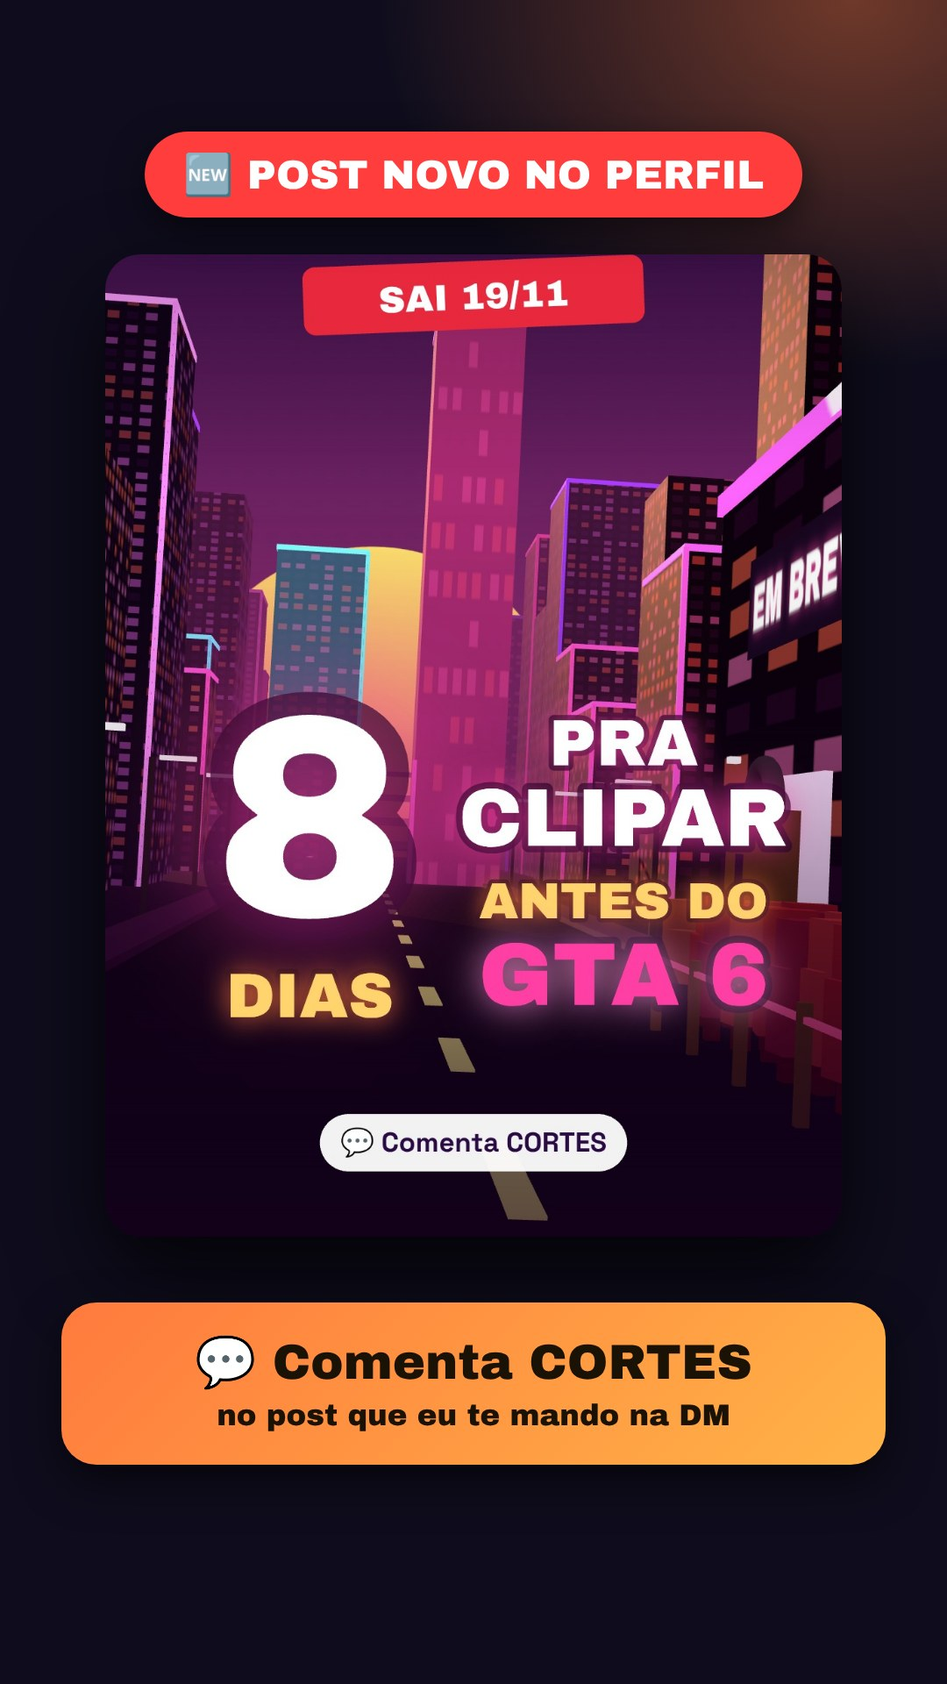
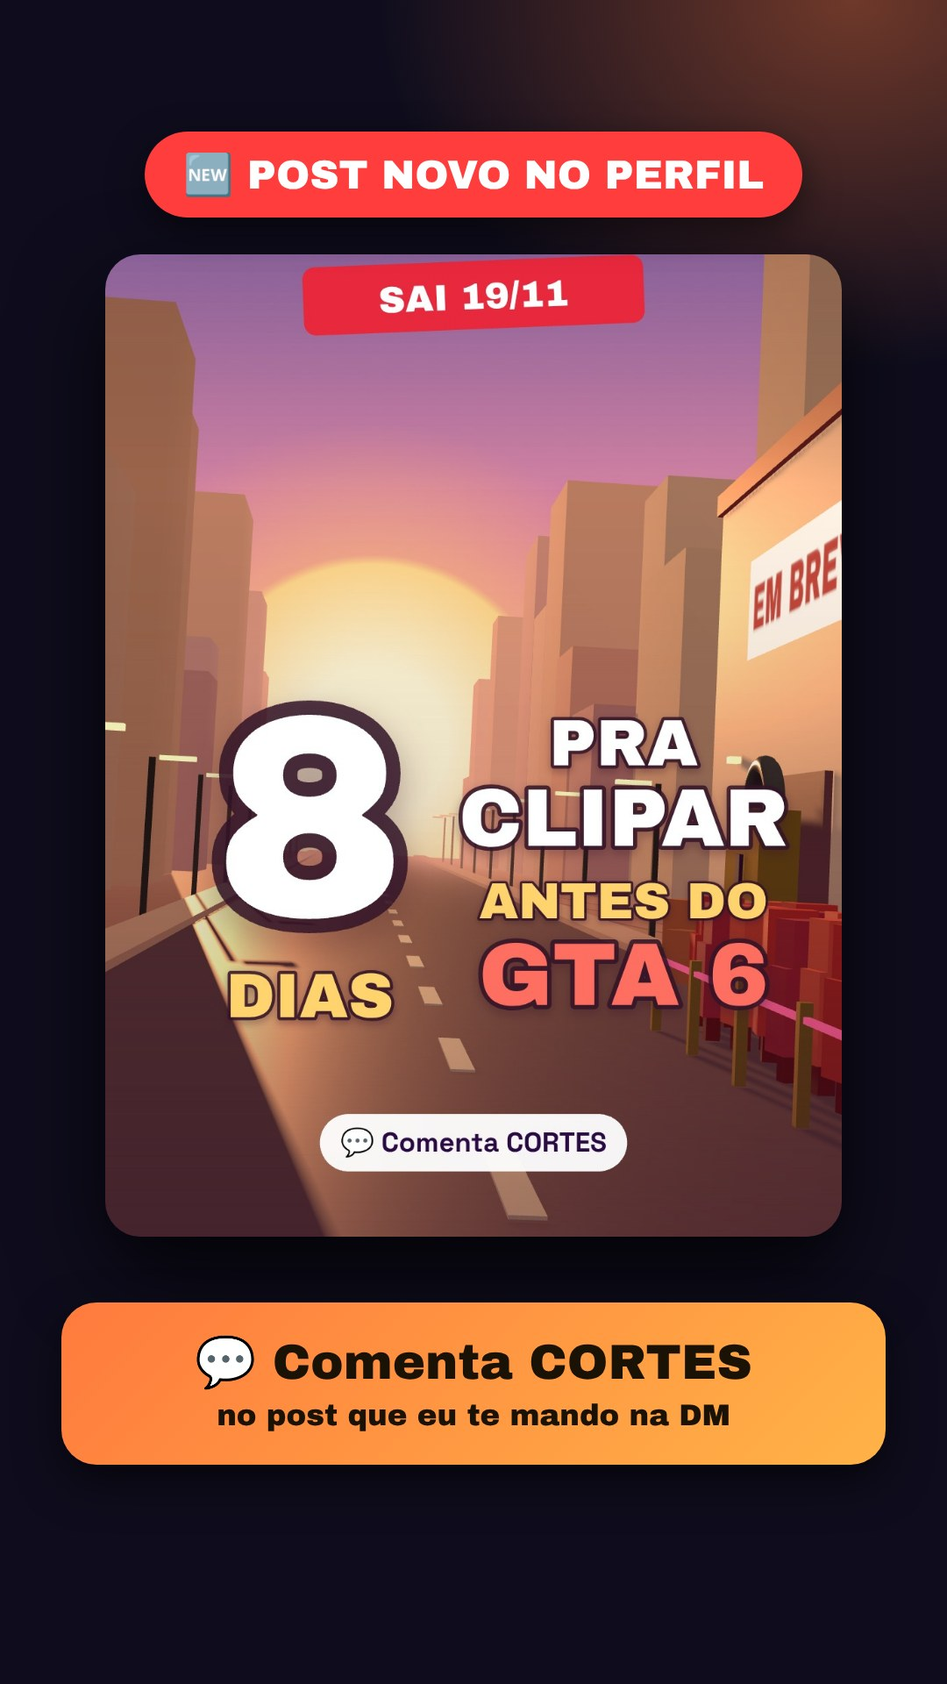
GTA 6: visual de pôr do sol limpo (sem neon/janelas), capa e story refeitas; manual atualizado
Claude-Session: https://claude.ai/code/session_01Q8XwFp4PbQRk1Sr59ew9Br

diff --git a/ia/video/cena_gta/index.html b/ia/video/cena_gta/index.html
@@ -14,9 +14,9 @@ for (const f of ['400 60px AB', '700 60px SG']) await document.fonts.load(f);
 const R = new THREE.WebGLRenderer({ canvas: document.getElementById('g'), antialias: true, preserveDrawingBuffer: true });
 R.setSize(1080, 1920, false); R.shadowMap.enabled = true; R.shadowMap.type = THREE.PCFSoftShadowMap; R.outputColorSpace = THREE.SRGBColorSpace;
 const S = new THREE.Scene(); const cam = new THREE.PerspectiveCamera(40, 1080 / 1920, .1, 500);
-S.fog = new THREE.Fog(0x8a2b6e, 40, 150);
-const hemi = new THREE.HemisphereLight(0xffb0d8, 0x40124a, 1.25); S.add(hemi);
-const sol = new THREE.DirectionalLight(0xffa77a, 2.4); sol.position.set(-20, 14, -40); sol.castShadow = true; sol.shadow.mapSize.set(2048, 2048);
+S.fog = new THREE.Fog(0xf7a98a, 35, 170);
+const hemi = new THREE.HemisphereLight(0xffe2c4, 0x8a5a6a, 1.35); S.add(hemi);
+const sol = new THREE.DirectionalLight(0xffb070, 2.6); sol.position.set(-8, 10, -60); sol.castShadow = true; sol.shadow.mapSize.set(2048, 2048); sol.shadow.bias = -0.0006; sol.shadow.normalBias = .04;
 Object.assign(sol.shadow.camera, { left: -40, right: 40, top: 40, bottom: -40, near: 1, far: 120 }); S.add(sol, sol.target);
 const cl = (x, a = 0, b = 1) => Math.max(a, Math.min(b, x)), lin = (t, a, b) => cl((t - a) / (b - a)), eo = x => 1 - Math.pow(1 - cl(x), 3);
 const eio = x => { x = cl(x); return x < .5 ? 4 * x * x * x : 1 - Math.pow(-2 * x + 2, 3) / 2; }, back = x => { x = cl(x); const c = 1.7; return 1 + (c + 1) * Math.pow(x - 1, 3) + c * Math.pow(x - 1, 2); };
@@ -26,36 +26,35 @@ function mesh(g, m, par = S, x = 0, y = 0, z = 0) { const o = new THREE.Mesh(g, 
 const box = (w, h, d, m, par, x, y, z) => mesh(new THREE.BoxGeometry(w, h, d), m, par, x, y, z);
 function ctex(w, h, draw) { const c = document.createElement('canvas'); c.width = w; c.height = h; const g = c.getContext('2d'); const t = new THREE.CanvasTexture(c); t.colorSpace = THREE.SRGBColorSpace; t.draw = (...a) => { g.clearRect(0, 0, w, h); draw(g, w, h, ...a); t.needsUpdate = true; }; t.draw(); return t; }
 const V = (x, y, z) => new THREE.Vector3(x, y, z);
-const ROSA = '#ff3fa4', ROXO = '#7b2cff', CIANO = '#4fe3ff', CREME = '#fff3e6', LARANJA = '#ff7a3d';
+const ROSA = '#ff6f61', ROXO = '#6b4aa0', CIANO = '#ffc36b', CREME = '#fff3e6', LARANJA = '#ff7a3d';
 
 // ---------- céu: degradê pôr do sol + sol listrado ----------
-const ceuT = ctex(64, 512, g => { const d = g.createLinearGradient(0, 0, 0, 512); d.addColorStop(0, '#2a0b45'); d.addColorStop(.45, '#8a2b6e'); d.addColorStop(.75, '#ff6f91'); d.addColorStop(1, '#ffc38a'); g.fillStyle = d; g.fillRect(0, 0, 64, 512); });
+const ceuT = ctex(64, 512, g => { const d = g.createLinearGradient(0, 0, 0, 512); d.addColorStop(0, '#6b5aa8'); d.addColorStop(.38, '#e98aa0'); d.addColorStop(.7, '#ffb37a'); d.addColorStop(1, '#ffe2a8'); g.fillStyle = d; g.fillRect(0, 0, 64, 512); });
 S.background = ceuT;
-const solT = ctex(512, 512, g => { const d = g.createLinearGradient(0, 0, 0, 512); d.addColorStop(0, '#ffe36e'); d.addColorStop(1, '#ff3f8e'); g.fillStyle = d; g.beginPath(); g.arc(256, 256, 250, 0, 7); g.fill();
-  g.globalCompositeOperation = 'destination-out'; for (let i = 0; i < 7; i++) g.fillRect(0, 300 + i * 30, 512, 6 + i * 2); });
-const SOL = mesh(new THREE.PlaneGeometry(40, 40), new THREE.MeshBasicMaterial({ map: solT, transparent: true, fog: false, depthWrite: false }), S, 0, 12, -140); SOL.castShadow = SOL.receiveShadow = false;
+const solT = ctex(512, 512, g => { const h = g.createRadialGradient(256, 256, 60, 256, 256, 256); h.addColorStop(0, 'rgba(255,246,214,1)'); h.addColorStop(.42, 'rgba(255,214,140,1)'); h.addColorStop(.46, 'rgba(255,190,120,.55)'); h.addColorStop(1, 'rgba(255,170,110,0)'); g.fillStyle = h; g.fillRect(0, 0, 512, 512); });
+const SOL = mesh(new THREE.PlaneGeometry(70, 70), new THREE.MeshBasicMaterial({ map: solT, transparent: true, fog: false, depthWrite: false }), S, 0, 10, -150); SOL.castShadow = SOL.receiveShadow = false;
 
 // ---------- cidade: avenida principal (eixo z) com prédios dos dois lados ----------
-const chao = mesh(new THREE.PlaneGeometry(400, 400), M('#2b1238', { roughness: .35, metalness: .2 })); chao.rotation.x = -Math.PI / 2;
-const rua = box(10, .02, 300, M('#1a0b24', { roughness: .3, metalness: .3 }), S, 0, .01, -60);
-for (let z = 60; z > -200; z -= 6) box(.25, .03, 2.4, E('#ffd36e', 1.2), S, 0, .03, z);
-for (const x of [-5.6, 5.6]) box(1.2, .18, 300, M('#4a2050'), S, x, .09, -60);
+const chao = mesh(new THREE.PlaneGeometry(400, 400), M('#c98a7a', { roughness: .8 })); chao.rotation.x = -Math.PI / 2;
+const rua = box(10, .02, 300, M('#6e4a5a', { roughness: .55, metalness: .1 }), S, 0, .01, -60);
+for (let z = 60; z > -200; z -= 6) box(.25, .03, 2.4, M('#fff1d6'), S, 0, .03, z);
+for (const x of [-5.6, 5.6]) box(1.2, .18, 300, M('#e8b9a4'), S, x, .09, -60);
 const janT = ctex(128, 256, g => { g.fillStyle = '#1b0b2a'; g.fillRect(0, 0, 128, 256); for (let y = 10; y < 256; y += 26) for (let x = 10; x < 128; x += 30) { g.fillStyle = Math.random() < .55 ? (Math.random() < .5 ? '#ffd1f0' : '#ffb36b') : '#3a1a4a'; g.fillRect(x, y, 18, 14); } });
 janT.wrapS = janT.wrapT = THREE.RepeatWrapping;
 const PRED = [];
-function predio(x, z, w, d, h, cor, neon) { const g = new THREE.Group(); g.position.set(x, 0, z); S.add(g); const mt = M(cor, { map: janT.clone() }); mt.map.repeat.set(Math.max(1, w / 3), Math.max(1, h / 5)); mt.map.needsUpdate = true;
+function predio(x, z, w, d, h, cor, neon) { const g = new THREE.Group(); g.position.set(x, 0, z); S.add(g); const mt = M(cor, { roughness: .85 });
   const b = box(w, h, d, mt, g, 0, h / 2, 0); b.userData.base = h; if (neon) { box(w + .1, .25, d + .1, E(neon, 2.5), g, 0, h, 0); box(.2, h, .2, E(neon, 2), g, x < 0 ? w / 2 : -w / 2, h / 2, d / 2); } PRED.push(g); return g; }
-const cores = ['#e9d6ff', '#ffc6e3', '#b78bff', '#ff9ccc', '#ffe3f3', '#c7a6ff'], neons = [ROSA, CIANO, ROXO, '#ff6bd5', null, null];
+const cores = ['#f6c7ae', '#f0a99a', '#e8b4c4', '#fbd9bd', '#d99aa8', '#f4bfa0'], neons = [null, null, null, null, null, null];
 for (const lado of [-1, 1]) for (let z = 30; z > -170; z -= 7 + rnd() * 4) { const w = 5 + rnd() * 4, h = 6 + rnd() * 18; predio(lado * (9 + w / 2 + rnd() * 2), z, w, 5 + rnd() * 3, h, cores[(rnd() * 6) | 0], neons[(rnd() * 6) | 0]); }
 // postes com luz rosa
-for (let z = 26; z > -120; z -= 12) for (const x of [-6.4, 6.4]) { box(.15, 4, .15, M('#333'), S, x, 2, z); box(.9, .12, .3, E('#ff9ad1', 3), S, x * .9, 4, z); }
+for (let z = 26; z > -120; z -= 12) for (const x of [-6.4, 6.4]) { box(.15, 4, .15, M('#333'), S, x, 2, z); box(.9, .12, .3, E('#ffe0a8', 1.2), S, x * .9, 4, z); }
 
 // ---------- prédio "EM BREVE" (alvo da fila), à direita do começo da avenida ----------
 const LOJA = new THREE.Group(); LOJA.position.set(8.5, 0, -6); LOJA.rotation.y = -Math.PI / 2; S.add(LOJA);
-box(12, 9, 6, M('#ffd9ec', { map: janT }), LOJA, 0, 4.5, 0); box(12.2, .4, 6.2, E(ROSA, 2.5), LOJA, 0, 9, 0);
-const breveT = ctex(512, 128, (g, w, h, txt = 'EM BREVE') => { g.fillStyle = '#18061f'; g.fillRect(0, 0, w, h); g.fillStyle = '#fff'; g.font = '400 82px AB'; g.textAlign = 'center'; g.textBaseline = 'middle'; g.shadowColor = ROSA; g.shadowBlur = 22; g.fillText(txt, w / 2, h / 2 + 4); });
+box(12, 9, 6, M('#fbe3d0'), LOJA, 0, 4.5, 0); box(12.2, .4, 6.2, M('#d97a6a'), LOJA, 0, 9, 0);
+const breveT = ctex(512, 128, (g, w, h, txt = 'EM BREVE') => { g.fillStyle = '#fff4e6'; g.fillRect(0, 0, w, h); g.fillStyle = '#c4473a'; g.font = '400 82px AB'; g.textAlign = 'center'; g.textBaseline = 'middle'; g.fillText(txt, w / 2, h / 2 + 4); });
 const LETREIRO = mesh(new THREE.PlaneGeometry(7, 1.75), new THREE.MeshBasicMaterial({ map: breveT }), LOJA, 0, 6.6, 3.05);
-const PORTA = box(3, 3.6, .2, E('#ffb3dc', 1.6), LOJA, 0, 1.8, 3.02);
+const PORTA = box(3, 3.6, .2, M('#7a4a5a'), LOJA, 0, 1.8, 3.02);
 // cadeado gigante na porta
 const CAD = new THREE.Group(); CAD.position.set(0, 2.2, 3.6); LOJA.add(CAD); box(2, 1.7, .6, M('#ffcf4a', { metalness: .7, roughness: .3 }), CAD, 0, 0, 0);
 const arco = mesh(new THREE.TorusGeometry(.65, .16, 12, 24, Math.PI), M('#d9d9e8', { metalness: .9, roughness: .2 }), CAD, 0, .85, 0); box(.25, .5, .1, M('#3a1a4a'), CAD, 0, -.1, .31);
@@ -71,8 +70,8 @@ function mascote(esc = 1) { const g = new THREE.Group(); const c = M('#d9774a', 
 const MASC = mascote(1.1); // 1º da fila
 // ---------- escritório (p1–p4): mesa com monitor numa sala rosa, montado longe (x=60) ----------
 const SALA = new THREE.Group(); SALA.position.set(60, 0, 0); S.add(SALA);
-box(14, .2, 12, M('#3a1650'), SALA, 0, .1, 0); box(14, 9, .3, M('#5a1f73'), SALA, 0, 4.5, -5); box(.3, 9, 12, M('#4a1a62'), SALA, -7, 4.5, 0);
-box(4, 3, .1, E('#ff9ad1', .6), SALA, -3.5, 5.5, -4.8); // quadro neon
+box(14, .2, 12, M('#8a5a4c'), SALA, 0, .1, 0); box(14, 9, .3, M('#c27a62'), SALA, 0, 4.5, -5); box(.3, 9, 12, M('#a8654f'), SALA, -7, 4.5, 0);
+box(4, 3, .1, M('#ffd9b0'), SALA, -3.5, 5.5, -4.8); // quadro neon
 const MESA = box(6, .25, 2.6, M('#e9d6ff'), SALA, 0, 2.1, -2.6); for (const x of [-2.8, 2.8]) box(.2, 2, 2.4, M('#b78bff'), SALA, x, 1, -2.6);
 const telaT = ctex(640, 400, () => {}); const TELA = mesh(new THREE.PlaneGeometry(4.2, 2.6), new THREE.MeshBasicMaterial({ map: telaT }), SALA, 0, 3.9, -3.55);
 box(4.4, 2.8, .15, M('#1a1a22'), SALA, 0, 3.9, -3.65); box(.3, 1, .3, M('#1a1a22'), SALA, 0, 2.6, -3.7);
@@ -85,7 +84,7 @@ mesh(new THREE.PlaneGeometry(1.8, .68), new THREE.MeshBasicMaterial({ map: lvT, 
 const arqT = ctex(320, 200, g => { const d = g.createLinearGradient(0, 0, 0, 200); d.addColorStop(0, '#ff6f91'); d.addColorStop(1, '#2a0b45'); g.fillStyle = d; g.fillRect(0, 0, 320, 200); g.fillStyle = '#e8283c'; g.fillRect(14, 14, 80, 34); g.fillStyle = '#fff'; g.font = '400 24px AB'; g.fillText('LIVE', 24, 40); g.font = '700 24px SG'; g.fillText('live_gta.mp4 · 4h12', 14, 182); });
 const ARQ = mesh(new THREE.BoxGeometry(2.6, 1.6, .06), [M('#fff'), M('#fff'), M('#fff'), M('#fff'), new THREE.MeshBasicMaterial({ map: arqT }), M('#fff')], PASTA, 0, 3, .3);
 // ---------- prédio que cresce ("o mais clipado") e prédio do recorde atual, numa praça (z=-60) ----------
-const RECD = predio(-3.6, -60, 4.4, 4.4, 16, '#f2eaff', CIANO); const MAIS = predio(3.6, -60, 4.4, 4.4, 6, '#ff9ccc', ROSA); MAIS.children[0].material.emissive.set('#ff3fa4'); MAIS.children[0].material.emissiveIntensity = .45; RECD.children[0].material.emissive.set('#4fe3ff'); RECD.children[0].material.emissiveIntensity = .2;
+const RECD = predio(-3.6, -60, 4.4, 4.4, 16, '#f2eaff', CIANO); const MAIS = predio(3.6, -60, 4.4, 4.4, 6, '#ff9ccc', ROSA); MAIS.children[0].material.color.set('#f08a78'); MAIS.children[0].material.emissive.set('#ff8a6a'); MAIS.children[0].material.emissiveIntensity = .12; RECD.children[0].material.color.set('#f6e4d4');
 // ---------- torres de moedas (longo) ----------
 const MOEDAS = new THREE.Group(); MOEDAS.position.set(0, 0, -100); MOEDAS.scale.setScalar(.7); S.add(MOEDAS); const gm = new THREE.CylinderGeometry(.9, .9, .22, 24), mm = M('#ffc93a', { metalness: .85, roughness: .25 });
 const pilhas = []; for (let k = 0; k < 5; k++) { const p = new THREE.InstancedMesh(gm, mm, 40); p.position.set(-4.8 + k * 2.4, 0, (k % 2) * 1.2); MOEDAS.add(p); pilhas.push(p); }
@@ -100,17 +99,17 @@ const fnt = (s, f = 'AB') => `${f === 'AB' ? 400 : 700} ${s}px ${f}`;
 const pil = (x, y, w, h, r, c) => { X.fillStyle = c; X.beginPath(); X.roundRect(x, y, w, h, r); X.fill(); };
 function cabe(txt, f, mx, fam = 'AB') { while (f > 18) { X.font = fnt(f, fam); if (X.measureText(txt).width <= mx) break; f -= 2; } return f; }
 function neon(txt, x, y, f, cor = '#fff', glow = ROSA, al = 'center', fam = 'AB') { X.save(); X.font = fnt(f, fam); X.textAlign = al; X.textBaseline = 'middle'; X.lineJoin = 'round';
-  X.lineWidth = f * .16; X.strokeStyle = 'rgba(20,0,30,.75)'; X.strokeText(txt, x, y); X.shadowColor = glow; X.shadowBlur = f * .45; X.fillStyle = cor; X.fillText(txt, x, y); X.shadowBlur = 0; X.fillText(txt, x, y); X.restore(); }
-function estrelas(n, lt) { const w = 300, x = 505 - w / 2, y = 280; pil(x, y, w, 76, 38, 'rgba(25,8,40,.82)'); X.strokeStyle = ROSA; X.lineWidth = 3; X.beginPath(); X.roundRect(x, y, w, 76, 38); X.stroke();
+  X.shadowColor = 'rgba(60,20,40,.45)'; X.shadowBlur = f * .12; X.shadowOffsetY = f * .05; X.lineWidth = f * .1; X.strokeStyle = 'rgba(50,20,40,.85)'; X.strokeText(txt, x, y); X.shadowColor = 'transparent'; X.fillStyle = cor; X.fillText(txt, x, y); X.restore(); }
+function estrelas(n, lt) { const w = 300, x = 505 - w / 2, y = 280; pil(x, y, w, 76, 38, 'rgba(58,28,40,.82)'); X.strokeStyle = ROSA; X.lineWidth = 3; X.beginPath(); X.roundRect(x, y, w, 76, 38); X.stroke();
   for (let i = 0; i < 4; i++) { const on = i < n, nov = i === n - 1, s = nov ? back(lin(lt, .05, .4)) : 1; X.save(); X.translate(x + 48 + i * 46, y + 38); X.scale(s, s); X.fillStyle = on ? '#ffd36e' : 'rgba(255,255,255,.25)'; star(0, 0, 17); X.restore(); }
   X.fillStyle = '#fff'; X.font = fnt(30, 'SG'); X.textAlign = 'left'; X.textBaseline = 'middle'; X.fillText(n + '/4', x + 232, y + 40); }
 function star(x, y, r) { X.beginPath(); for (let i = 0; i < 10; i++) { const a = -Math.PI / 2 + i * Math.PI / 5, rr = i % 2 ? r * .45 : r; X.lineTo(x + Math.cos(a) * rr, y + Math.sin(a) * rr); } X.closePath(); X.fill(); }
 function flap(txt, cx, y, cw, ch, k, cor = '#fff') { // letreiro split-flap: letras embaralham até assentar (k 0→1)
   const L = txt.length, AZ = 'ABCDEFGHIJKLMNOPQRSTUVWXYZ0123456789'; const x0 = cx - (L * (cw + 8) - 8) / 2;
   for (let i = 0; i < L; i++) { const ch0 = txt[i]; const ok = k > (i + 1) / (L + 2); const c = ch0 === ' ' ? ' ' : ok ? ch0 : AZ[(Math.floor(k * 60) * 7 + i * 13) % AZ.length]; const x = x0 + i * (cw + 8);
-    if (ch0 !== ' ') { pil(x, y, cw, ch, 10, '#14081c'); X.fillStyle = 'rgba(255,255,255,.08)'; X.fillRect(x, y + ch / 2 - 1, cw, 2); X.fillStyle = cor; X.font = fnt(ch * .62); X.textAlign = 'center'; X.textBaseline = 'middle'; X.fillText(c, x + cw / 2, y + ch / 2 + 3); } } }
+    if (ch0 !== ' ') { pil(x, y, cw, ch, 10, '#3a1e2a'); X.fillStyle = 'rgba(255,255,255,.08)'; X.fillRect(x, y + ch / 2 - 1, cw, 2); X.fillStyle = cor; X.font = fnt(ch * .62); X.textAlign = 'center'; X.textBaseline = 'middle'; X.fillText(c, x + cw / 2, y + ch / 2 + 3); } } }
 function odometro(n, cx, y, dig, rot, sub, glow = ROSA) { const s = n.toLocaleString('pt-BR'); const W = 74, H = 116; let w = 0; for (const c of s) w += c === '.' ? 22 : W + 6; let x = cx - w / 2;
-  X.save(); X.shadowColor = glow; X.shadowBlur = 40; pil(cx - w / 2 - 30, y - 30, w + 60, H + 60, 30, 'rgba(25,8,40,.9)'); X.restore(); X.strokeStyle = glow; X.lineWidth = 5; X.beginPath(); X.roundRect(cx - w / 2 - 30, y - 30, w + 60, H + 60, 30); X.stroke();
+  X.save(); X.shadowColor = glow; X.shadowBlur = 40; pil(cx - w / 2 - 30, y - 30, w + 60, H + 60, 30, 'rgba(58,28,40,.9)'); X.restore(); X.strokeStyle = glow; X.lineWidth = 5; X.beginPath(); X.roundRect(cx - w / 2 - 30, y - 30, w + 60, H + 60, 30); X.stroke();
   for (const c of s) { if (c === '.') { X.fillStyle = '#fff'; X.fillRect(x + 6, y + H - 16, 10, 10); x += 22; continue; } pil(x, y, W, H, 10, '#f4ecff'); X.fillStyle = '#1a0b24'; X.font = fnt(84); X.textAlign = 'center'; X.textBaseline = 'middle'; X.fillText(c, x + W / 2, y + H / 2 + 4); X.fillStyle = 'rgba(0,0,0,.12)'; X.fillRect(x, y + H / 2, W, 2); x += W + 6; }
   if (rot) { X.font = fnt(36, 'SG'); const tw = X.measureText(rot).width + 40; pil(cx - tw / 2, y - 100, tw, 56, 28, '#fff'); X.fillStyle = '#2a0b45'; X.textAlign = 'center'; X.textBaseline = 'middle'; X.fillText(rot, cx, y - 70); }
   if (sub) { X.font = fnt(30, 'SG'); const tw = X.measureText(sub).width + 40; pil(cx - tw / 2, y + H + 52, tw, 52, 26, ROSA); X.fillStyle = '#fff'; X.textAlign = 'center'; X.fillText(sub, cx, y + H + 80); } }
@@ -161,6 +160,7 @@ function mundo(cena, lt, d, t) {
   FILA.forEach((p, i) => { p.position.y = Math.abs(Math.sin(t * 6 + i)) * .08; });
   CAD.visible = cena === 'gancho' || cena === 'fila'; CAD.scale.setScalar(cena === 'gancho' ? Math.max(.01, back(lin(lt, d * .55, d * .55 + .4))) : 1); CAD.rotation.z = cena === 'gancho' ? Math.sin(t * 9) * .05 * lin(lt, d * .6, d) : 0;
   MASC.position.set(4.1, 0, -4.7); MASC.rotation.y = -Math.PI * .75 + (cena === 'fila' ? Math.sin(t * 4) * .2 : 0); MASC.position.y = cena === 'fila' ? Math.abs(Math.sin(t * 7)) * .25 : 0;
+  RECD.visible = MAIS.visible = cena === 'recorde' || cena === 'clipado';
   // prédio do "mais clipado" cresce no clipado
   const hm = cena === 'clipado' ? 6 + 22 * eio(lin(lt, .2, d * .8)) : ['recorde'].includes(cena) ? 6 : 28; MAIS.children[0].scale.y = hm / 6; MAIS.children[0].position.y = hm / 2; MAIS.children[1].position.y = hm;
   // sala: pasta e tela
@@ -179,7 +179,7 @@ function ui(cena, lt, d, t, s) {
   const Y = 760;
   if (cena === 'gancho') { const a = back(lin(lt, 0, .35)); X.save(); X.translate(505, 1000); X.scale(a, a); neon(String(DIA), 0, 0, 290, '#fff', ROSA); X.restore();
     const k = eo(lin(lt, .3, .7)); X.globalAlpha = k; neon('DIAS PRA CLIPAR', 505, 1175, 62, '#fff', ROSA); neon('ANTES DO GTA 6', 505, 1245, 52, '#ffd36e', LARANJA);
-    X.font = fnt(30, 'SG'); const tx = 'lançamento: 19 nov 2026'; const tw = X.measureText(tx).width + 40; pil(505 - tw / 2, 1285, tw, 48, 24, 'rgba(25,8,40,.8)'); X.fillStyle = '#fff'; X.textAlign = 'center'; X.textBaseline = 'middle'; X.fillText(tx, 505, 1310); X.globalAlpha = 1;
+    X.font = fnt(30, 'SG'); const tx = 'lançamento: 19 nov 2026'; const tw = X.measureText(tx).width + 40; pil(505 - tw / 2, 1285, tw, 48, 24, 'rgba(58,28,40,.8)'); X.fillStyle = '#fff'; X.textAlign = 'center'; X.textBaseline = 'middle'; X.fillText(tx, 505, 1310); X.globalAlpha = 1;
     if (lt > d * .55) { const b = back(lin(lt, d * .55, d * .55 + .3)); X.save(); X.translate(505, 560); X.rotate(-.05); X.scale(b, b); pil(-260, -48, 520, 96, 16, '#e8283c'); X.fillStyle = '#fff'; X.font = fnt(50); X.textAlign = 'center'; X.textBaseline = 'middle'; X.fillText('AINDA NÃO SAIU', 0, 4); X.restore(); } }
   if (cena === 'oportunidade') { const k1 = eo(lin(lt, .1, .5)), k2 = eo(lin(lt, .7, 1.1)); X.globalAlpha = k1; neon('MAIOR OPORTUNIDADE', 505, 980, cabe('MAIOR OPORTUNIDADE', 74, 860), '#fff', ROSA); X.globalAlpha = k2; neon('DA GERAÇÃO.', 505, 1070, 74, ROSA, '#ff9ad1'); X.globalAlpha = 1; }
   if (cena === 'recorde') { const n = Math.round(90421491 * eio(lin(lt, .2, Math.min(d - .3, 2.4)))); odometro(n, 505, 690, 8, '1º TRAILER DO GTA 6', 'VIEWS EM 24 H · RECORDE GUINNESS'); }
@@ -214,7 +214,7 @@ function ui(cena, lt, d, t, s) {
       const gd = X.createLinearGradient(0, -125, 0, 125); gd.addColorStop(0, '#ff6f91'); gd.addColorStop(1, '#2a0b45'); pil(-70, -125, 140, 250, 14, '#fff'); X.fillStyle = gd; X.fillRect(-64, -119, 128, 238); X.fillStyle = '#ffd36e'; X.beginPath(); X.arc(0, -20, 26, 0, 7); X.fill();
       for (let j = 0; j < 4; j++) { X.fillStyle = [ROXO, ROSA, CIANO][j % 3]; X.fillRect(-60 + j * 32, 60 - (j * 23) % 50, 26, 59 - 60 + 60); }
       X.font = fnt(18, 'SG'); const w = X.measureText(tags[i]).width + 20; pil(-w / 2, 140, w, 36, 10, '#ffd36e'); X.fillStyle = '#2a0b45'; X.textAlign = 'center'; X.textBaseline = 'middle'; X.fillText(tags[i], 0, 159); X.restore(); } }
-  if (cena === 'longo') { const k = eo(lin(lt, .1, .5)); X.globalAlpha = k; X.save(); X.shadowColor = ROSA; X.shadowBlur = 40; pil(110, 520, 790, 470, 24, '#14081c'); X.restore(); X.strokeStyle = ROSA; X.lineWidth = 6; X.beginPath(); X.roundRect(110, 520, 790, 470, 24); X.stroke();
+  if (cena === 'longo') { const k = eo(lin(lt, .1, .5)); X.globalAlpha = k; X.save(); X.shadowColor = ROSA; X.shadowBlur = 40; pil(110, 520, 790, 470, 24, '#3a1e2a'); X.restore(); X.strokeStyle = ROSA; X.lineWidth = 6; X.beginPath(); X.roundRect(110, 520, 790, 470, 24); X.stroke();
     neon('MELHORES', 505, 610, 78, '#fff', ROSA); neon('MOMENTOS', 505, 700, 78, '#fff', ROSA); for (let i = 0; i < 5; i++) { const x = 150 + i * 146; const gd = X.createLinearGradient(0, 770, 0, 900); gd.addColorStop(0, '#ff6f91'); gd.addColorStop(1, '#2a0b45'); X.fillStyle = gd; X.fillRect(x, 770, 130, 160); }
     X.fillStyle = '#fff'; X.font = fnt(26, 'SG'); X.textAlign = 'left'; X.fillText('▶ 18:47 · YouTube', 150, 960); X.globalAlpha = 1;
     if (lt > d * .5) { const b = back(lin(lt, d * .5, d * .5 + .3)); X.save(); X.translate(505, 1190); X.scale(b, b); pil(-300, -46, 600, 92, 16, '#ffd36e'); X.fillStyle = '#2a0b45'; X.font = fnt(42); X.textAlign = 'center'; X.textBaseline = 'middle'; X.fillText('VÍDEO LONGO', 0, 4); X.restore(); } }
@@ -249,7 +249,7 @@ window.setT = t => {
 window.capa = () => {
   mundo('gancho', 9, 10, 1.3); CAD.scale.setScalar(1); CAD.visible = true;
   hemi.intensity = 1.6; cam.fov = 46; cam.updateProjectionMatrix(); cam.position.copy(V(-1.2, 2.4, 17)); cam.lookAt(V(2.2, 5.2, -30)); cam.rotateZ(.05); R.render(S, cam); cam.fov = 40; cam.updateProjectionMatrix(); hemi.intensity = 1.25;
-  X.clearRect(0, 0, 1080, 1920); const vg = X.createLinearGradient(0, 0, 0, 1920); vg.addColorStop(0, 'rgba(20,0,30,.35)'); vg.addColorStop(.3, 'rgba(0,0,0,0)'); vg.addColorStop(.48, 'rgba(20,0,30,.1)'); vg.addColorStop(.75, 'rgba(20,0,30,.6)'); vg.addColorStop(1, 'rgba(20,0,30,.8)'); X.fillStyle = vg; X.fillRect(0, 0, 1080, 1920);
+  X.clearRect(0, 0, 1080, 1920); const vg = X.createLinearGradient(0, 0, 0, 1920); vg.addColorStop(0, 'rgba(40,20,50,.15)'); vg.addColorStop(.3, 'rgba(0,0,0,0)'); vg.addColorStop(.6, 'rgba(60,25,45,.12)'); vg.addColorStop(1, 'rgba(60,25,45,.55)'); X.fillStyle = vg; X.fillRect(0, 0, 1080, 1920);
   X.save(); X.translate(540, 300); X.rotate(-.04); pil(-250, -50, 500, 100, 18, '#e8283c'); X.fillStyle = '#fff'; X.font = fnt(54); X.textAlign = 'center'; X.textBaseline = 'middle'; X.fillText('SAI 19/11', 0, 4); X.restore();
   neon(String(DIA), 300, 1080, 420, '#fff', ROSA); neon('DIAS', 300, 1330, 92, '#ffd36e', LARANJA);
   neon('PRA', 760, 960, 96, '#fff', ROSA); neon('CLIPAR', 760, 1070, 120, '#fff', ROSA); neon('ANTES DO', 760, 1190, 74, '#ffd36e', LARANJA); neon('GTA 6', 760, 1300, 130, ROSA, '#ff9ad1');

diff --git a/ia/AGENTE.md b/ia/AGENTE.md
@@ -111,7 +111,7 @@ Modelo: `posts/2026-11-10-9-dias-pro-gta-6/` + `video/cena_gta/` (Referência 14
 - **Mundo 3D com profundidade:** cidade/cenário de blocos inteiro com avenida, prédios dos dois lados, céu em degradê com sol, neblina de distância e luz quente de pôr do sol. Nada de palco fechado nem fundo chapado.
 - **Câmera viajando:** cada cena tem a sua posição no mundo; a câmera desliza de uma para a outra (corte seco só em salto grande), com leve inclinação e movimento contínuo. Nenhum quadro parado.
 - **Cada fala vira um objeto ou efeito:** número gigante neon, letreiro split-flap, odômetro girando, prédio que cresce, cadeado, pasta 3D, gráfico de picos, lista com checks, cartões que sobem, torres de moedas, fogos. Uma ideia por cena, um efeito forte por cena.
-- **Neon com brilho:** texto grande com contorno escuro e glow; paleta curta por vídeo (no GTA: rosa, roxo, ciano e amarelo).
+- **Visual limpo de pôr do sol (Vitor, 10/11: "tá meio poluído, tira essa textura neon e aplica mais algo tipo pôr do sol"):** prédios lisos em tons pastel quentes, sem textura de janelinhas nem faixas neon; céu em degradê lilás → rosa → laranja → dourado, sol grande e baixo no fim da avenida, luz dourada de contraluz. Texto grande branco/amarelo/coral com contorno escuro fino e sombra suave, sem glow. Paleta curta por vídeo.
 - **Progresso visível:** passos com selo de estrelas "1/4…4/4"; contador que muda a cada bloco.
 - **Fechamento:** caixa de comentário digitando a palavra + cartão da DM chegando; o último 0,6 s volta ao 1º quadro (loop).
 - **Capa no mesmo mundo 3D:** a capa é renderizada pela própria cena (`window.capa()` na `cena_gta`; `node video/cena_gta/capa.js <saida.jpg>` com o http.server na 8790), nunca o modelo genérico do `capas.js`: avenida com profundidade e sol ao fundo, número/título neon grande no recorte 3:4, selo vermelho no topo e pílula "Comenta PALAVRA" (Vitor, 10/11: "capa fraquíssima… mais alinhada com o vídeo").
